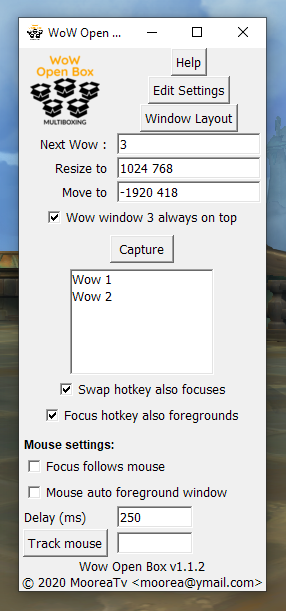
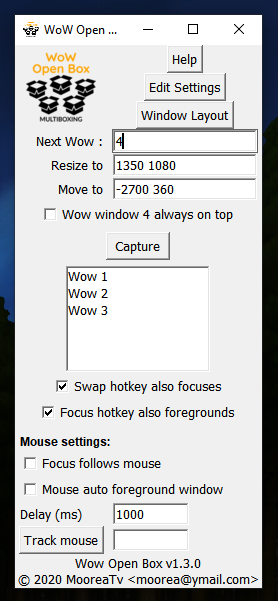
window layout is functional

diff --git a/help.md b/help.md
@@ -1,10 +1,13 @@
 # Wow Open Box online HELP
 
 ## Basic information
+![Window Layout](sshotWindowLayout.png)
 
-1. Select the Size you want your next window to be(*)
+1. Use the "Window Layout" UI to setup your Windows automatically _or_ 
 
-1. Select the position you want it to be at(*)
+1. Manually select the Size you want your next window to be(*)
+
+1. Manually select the position you want it to be at(*)
 
 1. Decide if that window should stay on top of others. you can use a hotkey (default `Ctrl-Shit-T`) to toggle that setting on the fly.(*)
 
@@ -16,7 +19,7 @@
 
 1. Press a hotkey to swap window 1 and window N: default `Ctrl-Shift-F2` will swap 1 and 2,  `Ctrl-Shift-F3` for swapping 1 and 3, etc... changeable in settings (note that it swaps what is currently showing in each position, so if you swap 1-2 (1,2,3->2,1,3) and then 1-3 you end up with 3 1 2). Input on this new feature is welcome. 
 
-*: You can change all settings at any time and they will be saved, per window index when you click "Update".
+*: You can change all settings at any time and they will be saved, per window index when you click "Update" or "Save and Apply" in the Window Layout GUI.
 
 Your settings are saved in `wowopenboxSettings.tcl` in same folder as WowOpenBox and can be edited pressing the "Edit Settings" button.
 

diff --git a/index.md b/index.md
@@ -34,3 +34,7 @@ Unzip and double-click `WowOpenBox.tkapp` to start it and enjoy!
 <p align="center">
 <img src="sshot1.png" alt="WOB Screenshot">
 </p>
+
+<p align="center">
+<img src="sshotWindowLayout.png" alt="WOB Window Layout">
+</p>
